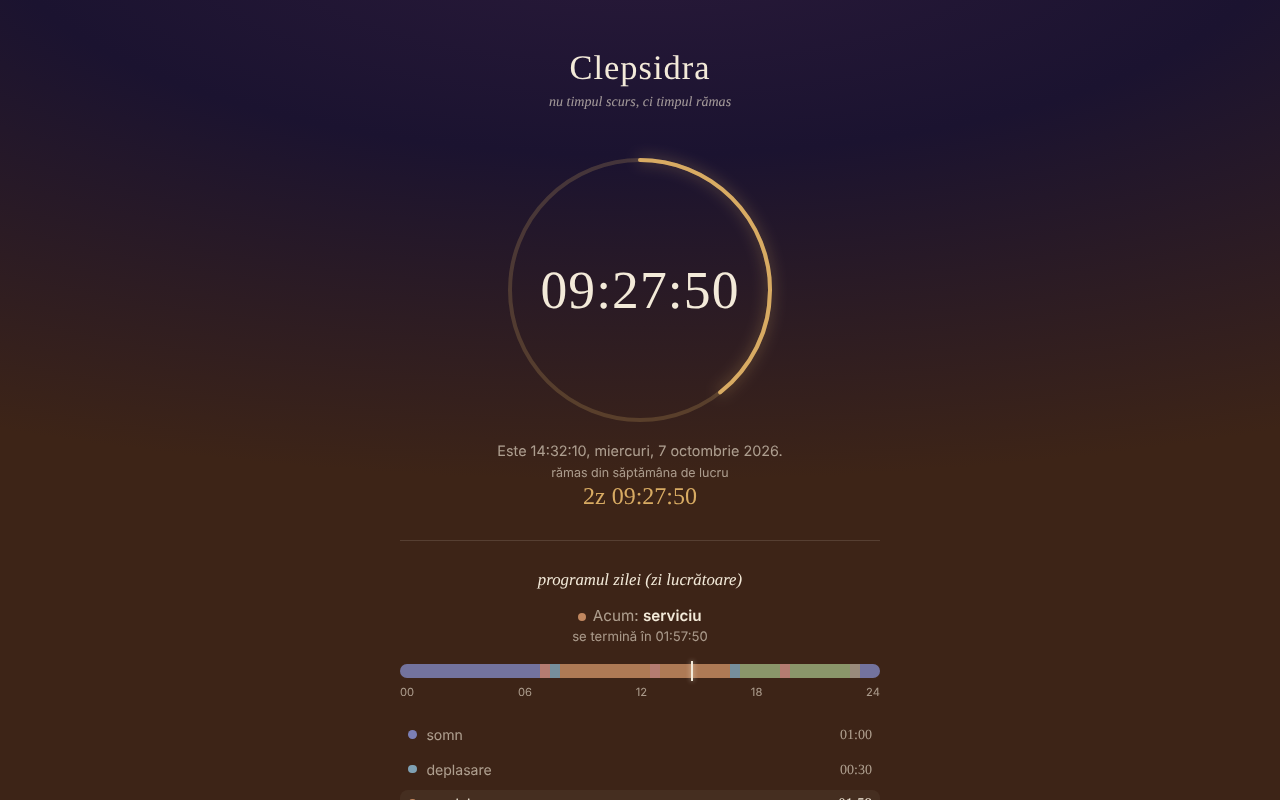
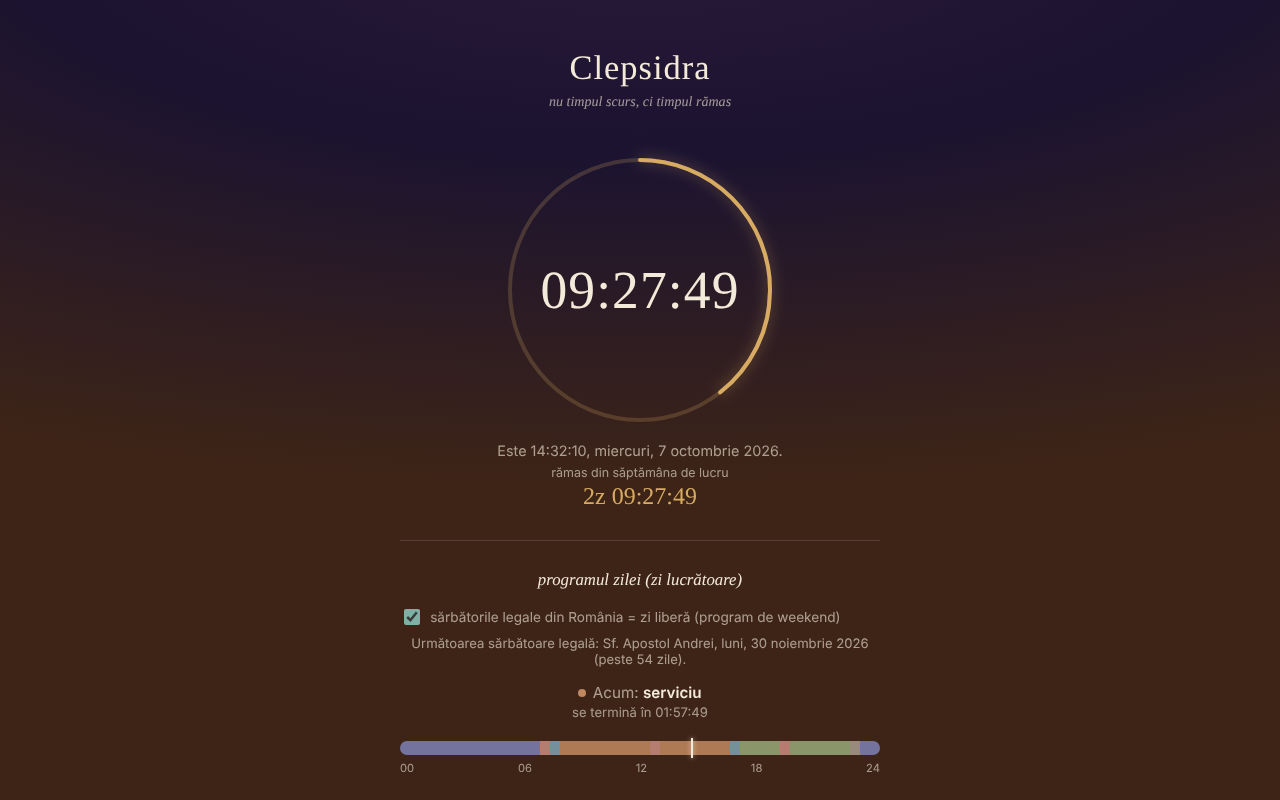
Runda 6 (11 octombrie 2026): reparații și îmbunătățiri
Claude-Session: https://claude.ai/code/session_01D2sCEb3hy3nutYexhUfQFs

Changed region(s): [[0.3125, 0.75, 0.6875, 0.9688], [0.5312, 0.3438, 0.5625, 0.4062]]

diff --git a/index.html b/index.html
@@ -3,7 +3,7 @@
 <head>
 <meta charset="UTF-8">
 <meta name="viewport" content="width=device-width, initial-scale=1.0, viewport-fit=cover">
-<meta http-equiv="Content-Security-Policy" content="default-src 'none'; script-src 'unsafe-inline'; style-src 'unsafe-inline'; img-src data:; base-uri 'none'; form-action 'none'; object-src 'none'">
+<meta http-equiv="Content-Security-Policy" content="default-src 'none'; script-src 'sha256-DxI2LJ3iTG5OwdGYT+dT/mMLh3yn95MgCQ9TKmCUKuk='; style-src 'unsafe-inline'; img-src data:; base-uri 'none'; form-action 'none'; object-src 'none'">
 <meta property="og:title" content="Clepsidra — ceas invers">
 <meta property="og:description" content="Timpul rămas din zi și din săptămână, alarmă și programe pentru zile lucrătoare și weekend. Local, fără telemetrie.">
 <meta property="og:type" content="website">
@@ -183,6 +183,8 @@
     background: transparent;
   }
   .now-activity strong{ color:var(--ink); font-weight:600; }
+  .holiday-toggle{ margin:0.2rem 0 0.4rem; }
+  .holiday-line{ margin:0 0 1rem; font-size:0.82rem; color: var(--ink-dim); min-height:1.1em; }
   .now-activity-time{
     margin:0 0 1.3rem;
     font-size:0.82rem;
@@ -539,7 +541,13 @@
   <section class="schedule-section" aria-label="Programul zilei">
     <h2 id="scheduleHeading">programul zilei</h2>
 
-    <p class="now-activity" id="nowActivity"><span class="now-dot" id="nowDot"></span>Acum: <strong id="nowActivityLabel">—</strong></p>
+    <label class="repeat-toggle holiday-toggle">
+ <input type="checkbox" id="holidayToggle" checked>
+ <span>sărbătorile legale din România = zi liberă (program de weekend)</span>
+ </label>
+ <p class="holiday-line" id="holidayLine" role="status"></p>
+
+ <p class="now-activity" id="nowActivity"><span class="now-dot" id="nowDot"></span>Acum: <strong id="nowActivityLabel">—</strong></p>
     <p class="now-activity-time" id="nowActivityTime"></p>
 
     <div class="day-bar-wrap">
@@ -569,7 +577,7 @@
       <div class="editor-rows" id="editorRows"></div>
       <button type="button" class="add-block-btn" id="addBlockBtn">+ adaugă interval</button>
       <p class="editor-warn" id="editorWarn" role="status"></p>
-      <p class="editor-note">modificările se salvează automat, doar în acest browser. Un interval cu început = sfârșit este ignorat; intervalele care trec de miezul nopții (ex. 23:00–07:00) sunt permise.</p>
+      <p class="editor-note">modificările se salvează automat, doar în acest browser. Programul „weekend” se aplică și în sărbătorile legale, dacă opțiunea de deasupra este bifată. Un interval cu început = sfârșit este ignorat; intervalele care trec de miezul nopții (ex. 23:00–07:00) sunt permise.</p>
     </div>
   </section>
 
@@ -900,9 +908,44 @@
     return parts[0]*60+parts[1];
   }
 
+
+  // ---- Sărbători legale (Codul muncii, art. 139): zile nelucrătoare. Paștele ortodox: algoritmul Meeus (calendar iulian, +13 zile, valabil 1900–2099). ----
+  var HOLIDAYS_KEY = 'clepsidra.holidays';
+  var holidaysEnabled = true;
+  try{ if(localStorage.getItem(HOLIDAYS_KEY) === '0') holidaysEnabled = false; }catch(e){}
+  var FIXED_HOLIDAYS = {
+    '1-1':'Anul Nou','1-2':'A doua zi de Anul Nou','1-6':'Boboteaza','1-7':'Sf. Ioan Botezătorul','1-24':'Ziua Unirii Principatelor Române',
+    '5-1':'Ziua Muncii','6-1':'Ziua Copilului','8-15':'Adormirea Maicii Domnului','11-30':'Sf. Apostol Andrei','12-1':'Ziua Națională a României',
+    '12-25':'Crăciunul','12-26':'A doua zi de Crăciun'
+  };
+  var holidayCache = {};
+  function orthodoxEaster(y){
+    var a = y % 4, b = y % 7, c = y % 19, d = (19*c + 15) % 30, e = (2*a + 4*b - d + 34) % 7;
+    var m = Math.floor((d + e + 114) / 31), dd = ((d + e + 114) % 31) + 1;
+    return new Date(y, m - 1, dd + 13); // dată iuliană + 13 zile
+  }
+  function holidaysOfYear(y){
+    if(holidayCache[y]) return holidayCache[y];
+    var map = {}, k;
+    for(k in FIXED_HOLIDAYS){ if(Object.prototype.hasOwnProperty.call(FIXED_HOLIDAYS,k)) map[k] = FIXED_HOLIDAYS[k]; }
+    var easter = orthodoxEaster(y);
+    function add(offset, name){
+      var d = new Date(easter.getFullYear(), easter.getMonth(), easter.getDate() + offset);
+      var key = (d.getMonth()+1) + '-' + d.getDate();
+      map[key] = map[key] ? map[key] + ' · ' + name : name;
+    }
+    add(-2, 'Vinerea Mare'); add(0, 'Paștele ortodox'); add(1, 'A doua zi de Paște'); add(49, 'Rusaliile'); add(50, 'A doua zi de Rusalii');
+    holidayCache[y] = map;
+    return map;
+  }
+  function holidayName(d){
+    return holidaysOfYear(d.getFullYear())[(d.getMonth()+1) + '-' + d.getDate()] || '';
+  }
+  function isHoliday(d){ return holidaysEnabled && !!holidayName(d); }
+
   function isWeekendDate(d){
     var day = d.getDay();
-    return (day === 0 || day === 6);
+    return (day === 0 || day === 6) || isHoliday(d);
   }
   function templateForDate(d){
     return isWeekendDate(d) ? weekendBlocks : weekdayBlocks;
@@ -961,19 +1004,15 @@
   }
 
   function getWeekCountdownInfo(now){
-    var day = now.getDay();
-    var isWknd = (day === 0 || day === 6);
-    var targetDate, label;
-    if(isWknd){
-      label = 'weekend';
-      var daysUntilMonday = (8 - day) % 7;
-      targetDate = new Date(now.getFullYear(), now.getMonth(), now.getDate()+daysUntilMonday, 0,0,0,0);
-    }else{
-      label = 'lucru';
-      var daysUntilSaturday = (6 - day) % 7;
-      targetDate = new Date(now.getFullYear(), now.getMonth(), now.getDate()+daysUntilSaturday, 0,0,0,0);
+    // Numărătoare până la următoarea schimbare dintre zile libere (weekend/sărbători) și zile lucrătoare, pe calendarul local.
+    var nonWorking = isWeekendDate(now), sawHoliday = isHoliday(now), targetDate = null;
+    for(var i = 1; i <= 400; i++){
+      var d = new Date(now.getFullYear(), now.getMonth(), now.getDate() + i, 0,0,0,0);
+      if(isWeekendDate(d) !== nonWorking){ targetDate = d; break; }
+      if(nonWorking && isHoliday(d)) sawHoliday = true;
     }
-    return { label: label, remainingMs: targetDate.getTime() - now.getTime() };
+    if(!targetDate) targetDate = new Date(now.getFullYear(), now.getMonth(), now.getDate() + 1, 0,0,0,0);
+    return { label: nonWorking ? (sawHoliday ? 'libere' : 'weekend') : 'lucru', remainingMs: targetDate.getTime() - now.getTime() };
   }
 
   function loadSchedule(){
@@ -1221,17 +1260,45 @@
 
   var lastDayType = null;
 
+  var holidayToggle = document.getElementById('holidayToggle');
+  var holidayLineEl = document.getElementById('holidayLine');
+  function renderHolidayLine(now){
+    var today = holidayName(now);
+    var text;
+    if(today){
+      text = 'Azi: ' + today + ' — zi liberă legală' + (holidaysEnabled ? '.' : ' (neluată în calcul: opțiunea e debifată).');
+    }else{
+      text = '';
+      for(var i = 1; i <= 400; i++){
+        var d = new Date(now.getFullYear(), now.getMonth(), now.getDate() + i, 0,0,0,0);
+        var nm = holidayName(d);
+        if(nm){ text = 'Următoarea sărbătoare legală: ' + nm + ', ' + formatDate(d) + ' (peste ' + i + (i === 1 ? ' zi)' : ' zile)') + '.'; break; }
+      }
+    }
+    holidayLineEl.textContent = text;
+  }
+  holidayToggle.checked = holidaysEnabled;
+  holidayToggle.addEventListener('change', function(){
+    holidaysEnabled = holidayToggle.checked;
+    try{ localStorage.setItem(HOLIDAYS_KEY, holidaysEnabled ? '1' : '0'); }catch(e){}
+    lastDayType = null;
+    updateExtras(new Date());
+    tick();
+  });
+
   function updateExtras(now){
     var weekInfo = getWeekCountdownInfo(now);
-    weekLabelEl.textContent = weekInfo.label === 'weekend' ? 'rămas din weekend' : 'rămas din săptămâna de lucru';
+    weekLabelEl.textContent = weekInfo.label === 'weekend' ? 'rămas din weekend' : (weekInfo.label === 'libere' ? 'rămas din zilele libere' : 'rămas din săptămâna de lucru');
     weekCountdownEl.textContent = fmtDurDays(weekInfo.remainingMs);
 
     var todayType = templateKeyForDate(now);
-    var dayKey = todayType + '|' + now.getFullYear() + '-' + now.getMonth() + '-' + now.getDate();
+    var dayKey = todayType + '|' + holidaysEnabled + '|' + now.getFullYear() + '-' + now.getMonth() + '-' + now.getDate();
     if(dayKey !== lastDayType){
       lastDayType = dayKey;
-      scheduleHeadingEl.textContent = 'programul zilei (' + (todayType === 'weekend' ? 'weekend' : 'zi lucrătoare') + ')';
+      var wkd = now.getDay() === 0 || now.getDay() === 6;
+      scheduleHeadingEl.textContent = 'programul zilei (' + (todayType === 'weekend' ? (wkd ? 'weekend' : 'sărbătoare legală') : 'zi lucrătoare') + ')';
       renderDayBar(now);
+      renderHolidayLine(now);
     }
 
     var active = currentActiveBlock(now);

diff --git a/README.md b/README.md
@@ -16,7 +16,7 @@ Un singur fișier HTML, fără dependențe externe, în limba română. Arată c
 
 Verificate în cod și în teste automate (Chromium headless, ceas simulat, fus orar Europe/Bucharest):
 - Numărătoare inversă până la următoarea miezul nopții, calculată pe calendarul local: în zilele cu schimbarea orei zilele durează 23 sau 25 de ore și numărătoarea o reflectă.
-- Numărătoare până la sfârșitul săptămânii de lucru (sâmbătă 00:00) sau al weekendului (luni 00:00). Weekendul este fix sâmbătă–duminică; sărbătorile legale nu sunt luate în calcul.
+- Numărătoare până la sfârșitul săptămânii de lucru (sâmbătă 00:00) sau al weekendului (luni 00:00). Weekendul este fix sâmbătă–duminică; zilele de sărbătoare legală din România sunt tratate ca zile libere (bifa „sărbători legale”, activă implicit, se poate opri), cu afișarea următoarei sărbători și a numelui ei.
 - Program separat pentru zile lucrătoare și weekend, cu șase categorii (somn, deplasare, serviciu, mese, timp liber, altele), bară a zilei, „acum” și timpul rămas pe categorii; editor de intervale (inclusiv peste miezul nopții). Editorul avertizează la intervale suprapuse; un interval cu început = sfârșit este ignorat.
 - Alarmă la o oră aleasă, cu opțiunea „repetă zilnic”, sunet repetat până la „oprește”, flash vizual și notificare de browser (dacă o permiți).
 
@@ -30,7 +30,7 @@ Verificate în cod și în teste automate (Chromium headless, ceas simulat, fus 
 ## Confidențialitate și rețea
 
 - Nu se face nicio cerere de rețea; fișierul nu încarcă resurse externe (are și o politică CSP restrictivă) și nu are telemetrie.
-- Stocare locală (`localStorage`): `clepsidra.schedule` (programele) și `clepsidra.alarm` (ora alarmei, repetare, activă). Datele din stocare sunt validate la încărcare; dacă stocarea e blocată, aplicația merge, dar nu păstrează setările.
+- Stocare locală (`localStorage`): `clepsidra.schedule` (programele) și `clepsidra.alarm` (ora alarmei, repetare, activă) și `clepsidra.holidays` (bifa sărbători legale). Datele din stocare sunt validate la încărcare; dacă stocarea e blocată, aplicația merge, dar nu păstrează setările.
 - Permisiuni: notificări (cerute doar la clicul pe „activează”) și sunet.
 
 ## Limite și avertismente
@@ -38,6 +38,7 @@ Verificate în cod și în teste automate (Chromium headless, ceas simulat, fus 
 - **Alarma funcționează doar cât pagina rămâne deschisă și activă.** Cu fila în fundal browserele încetinesc temporizatoarele, pe telefon cu ecranul blocat sau cu pagina închisă alarma poate suna cu întârziere sau deloc (aplicația spune acest lucru și în interfață; dacă prinde alarma târziu, afișează „cu N min în urmă”). Nu o folosi ca unică alarmă pentru lucruri importante.
 - Dacă pagina a fost închisă în momentul alarmei, alarma nu sună la redeschidere; se reprogramează pentru următoarea apariție a orei.
 - Pe iOS/Safari sunetul este permis doar după un gest al utilizatorului: de aceea sunetul se activează la apăsarea „activează”. Nu am putut testa pe dispozitive iOS reale.
+- Lista sărbătorilor urmează legislația la data verificării și poate deveni perimată dacă legea se schimbă; zilele libere ale altor culte sau cele acordate prin decizii punctuale (punți) nu sunt incluse.
 - Programul implicit este un exemplu; schimbă-l după nevoie. Zilele cu schimbare de oră au bara de zi scalată la durata reală (23/25 h), dar etichetele 00–24 rămân fixe.
 
 ## Rulare locală / offline
@@ -48,7 +49,7 @@ Descarcă `index.html` și deschide-l în browser; funcționează complet fără
 
 ### 11 octombrie 2026
 - Verificare la 11 octombrie 2026: axe 0 violări, fără erori în consolă, fără depășire orizontală la 360 px; numărătorile se calculează dinamic din ceasul local (inclusiv schimbarea orei din 25 octombrie 2026), deci nu conțin date fixe perimate.
-- Limita declarată (sărbătorile legale nu sunt luate în calcul) rămâne neschimbată.
+- Nou: sărbătorile legale ale României (listă verificată la 11 octombrie 2026 în Codul muncii art. 139 și într-o listă 2026; Paștele ortodox calculat prin algoritmul Meeus, +13 zile) contează ca zile libere în numărătoarea săptămânii; bifă de oprire, linie „următoarea sărbătoare”. Captura de ecran actualizată.
 
 ## Licență
 
